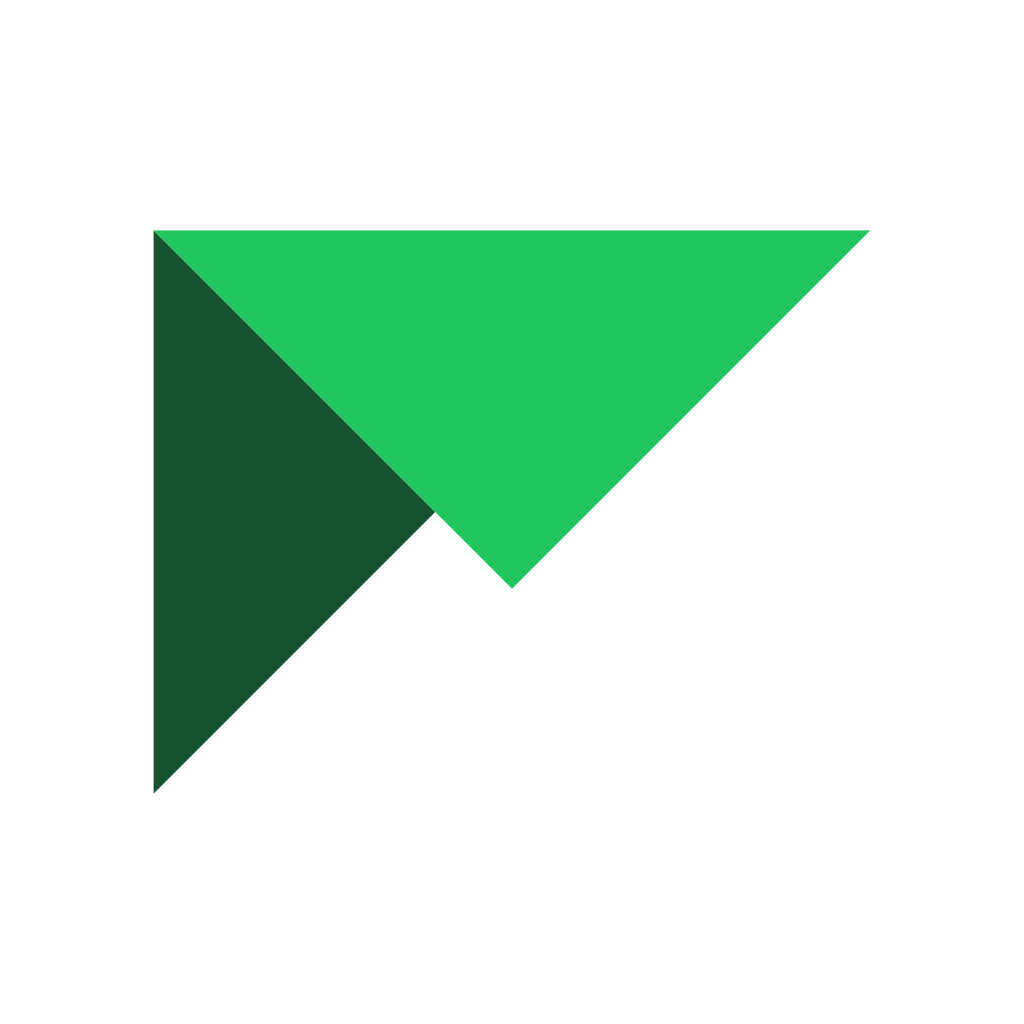
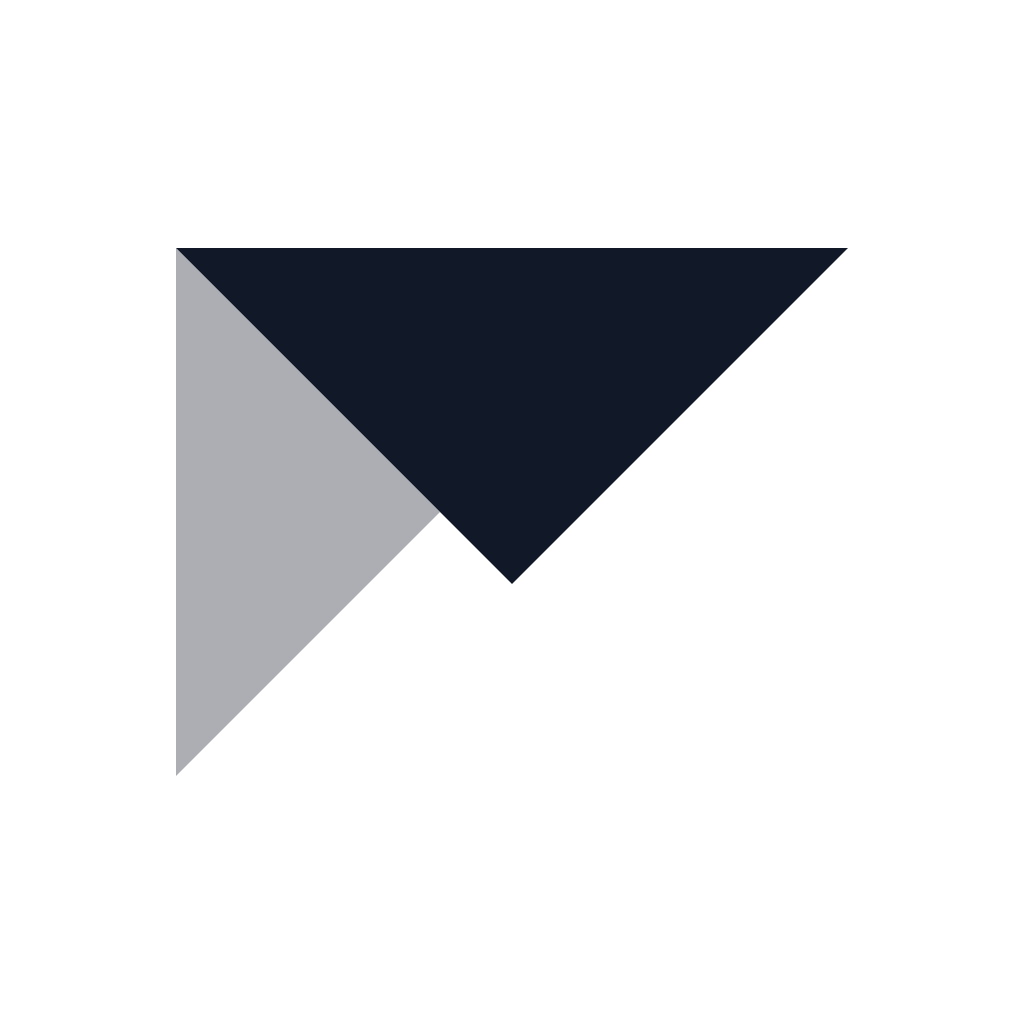
fix(web): suite mark is Magenta /brand/bevel-mark.svg
Canonical BevelCutMark from admin.magenta.lvh.me (ink facets, 64 viewBox).
Replace invented gradient nav mark; BevelNavMark uses same paths + currentColor.

Changed region(s): [[0.125, 0.2188, 0.8438, 0.7812]]

diff --git a/apps/web/src/components/BevelNavMark.tsx b/apps/web/src/components/BevelNavMark.tsx
@@ -1,7 +1,8 @@
 /**
- * Rich suite-nav Bevel mark (Slack / OpenAI chip density).
- * Same fold geometry as BevelCutMark; layered facets + green crease.
- * Scales cleanly from 16px to 2xl via viewBox.
+ * Suite-nav Bevel mark — canonical Magenta /brand/bevel-mark.svg geometry.
+ * Source of truth: https://admin.magenta.lvh.me/brand/bevel-mark.svg
+ * BevelCutMark paths (18 viewBox scaled); ink facets, transparent exterior.
+ * Use currentColor so dark suite chips invert cleanly.
  */
 export function BevelNavMark({
   className = 'size-5',
@@ -12,7 +13,7 @@ export function BevelNavMark({
 }) {
   return (
     <svg
-      viewBox="0 0 40 40"
+      viewBox="0 0 64 64"
       fill="none"
       aria-hidden={title ? undefined : true}
       role={title ? 'img' : undefined}
@@ -20,66 +21,17 @@ export function BevelNavMark({
       className={className}
       preserveAspectRatio="xMidYMid meet"
     >
-      <defs>
-        <linearGradient
-          id="bevelNavTop"
-          x1="2"
-          y1="3.5"
-          x2="16"
-          y2="10.5"
-          gradientUnits="userSpaceOnUse"
-        >
-          <stop stopColor="#F4F7F5" />
-          <stop offset="0.55" stopColor="#E8ECEA" />
-          <stop offset="1" stopColor="#C5CCC8" />
-        </linearGradient>
-        <linearGradient
-          id="bevelNavLeft"
-          x1="2"
-          y1="3.5"
-          x2="7.5"
-          y2="14.5"
-          gradientUnits="userSpaceOnUse"
-        >
-          <stop stopColor="#3D4A44" />
-          <stop offset="1" stopColor="#1A2220" />
-        </linearGradient>
-        <linearGradient
-          id="bevelNavRight"
-          x1="9"
-          y1="10.5"
-          x2="16"
-          y2="14.5"
-          gradientUnits="userSpaceOnUse"
-        >
-          <stop stopColor="#2A3530" />
-          <stop offset="1" stopColor="#0F1412" />
-        </linearGradient>
-        <linearGradient
-          id="bevelNavEdge"
-          x1="8.5"
-          y1="9"
-          x2="9.5"
-          y2="11"
-          gradientUnits="userSpaceOnUse"
-        >
-          <stop stopColor="#4ADE80" />
-          <stop offset="1" stopColor="#22C55E" />
-        </linearGradient>
-      </defs>
-      <g transform="translate(2 2) scale(2)">
-        <path d="M2 14.5V3.5L7.5 9 2 14.5Z" fill="url(#bevelNavLeft)" />
-        <path d="M2 3.5h14L9 10.5 2 3.5Z" fill="url(#bevelNavTop)" />
-        <path d="M16 3.5v11L9 10.5 16 14.5V3.5Z" fill="url(#bevelNavRight)" />
+      <g transform="translate(5 5) scale(3)" className="fill-current">
         <path
-          d="M8.55 9.7 L9.45 9.7 L9.15 10.55 L8.85 10.55 Z"
-          fill="url(#bevelNavEdge)"
-          opacity="0.95"
+          d="M2 14.5V3.5L7.5 9 2 14.5Z"
+          fill="currentColor"
+          opacity="0.35"
         />
+        <path d="M2 3.5h14L9 10.5 2 3.5Z" fill="currentColor" />
         <path
-          d="M3.2 4.4 L12.5 4.4 L9.2 8.2 L3.8 5.2 Z"
-          fill="#FFFFFF"
-          opacity="0.18"
+          d="M16 3.5v11L9 10.5 16 14.5V3.5Z"
+          fill="currentColor"
+          opacity="0.55"
         />
       </g>
     </svg>

diff --git a/apps/web/src/components/SuiteNav.tsx b/apps/web/src/components/SuiteNav.tsx
@@ -41,7 +41,8 @@ export function SuiteNav({
         )}
         title="BEVEL — platform home"
       >
-        <BevelNavMark className={mark} />
+        {/* Magenta bevel-mark geometry; currentColor tracks chip text */}
+        <BevelNavMark className={cn(mark, 'text-foreground')} />
         {showLabel ? (
           <span className="tracking-wide">BEVEL</span>
         ) : (
